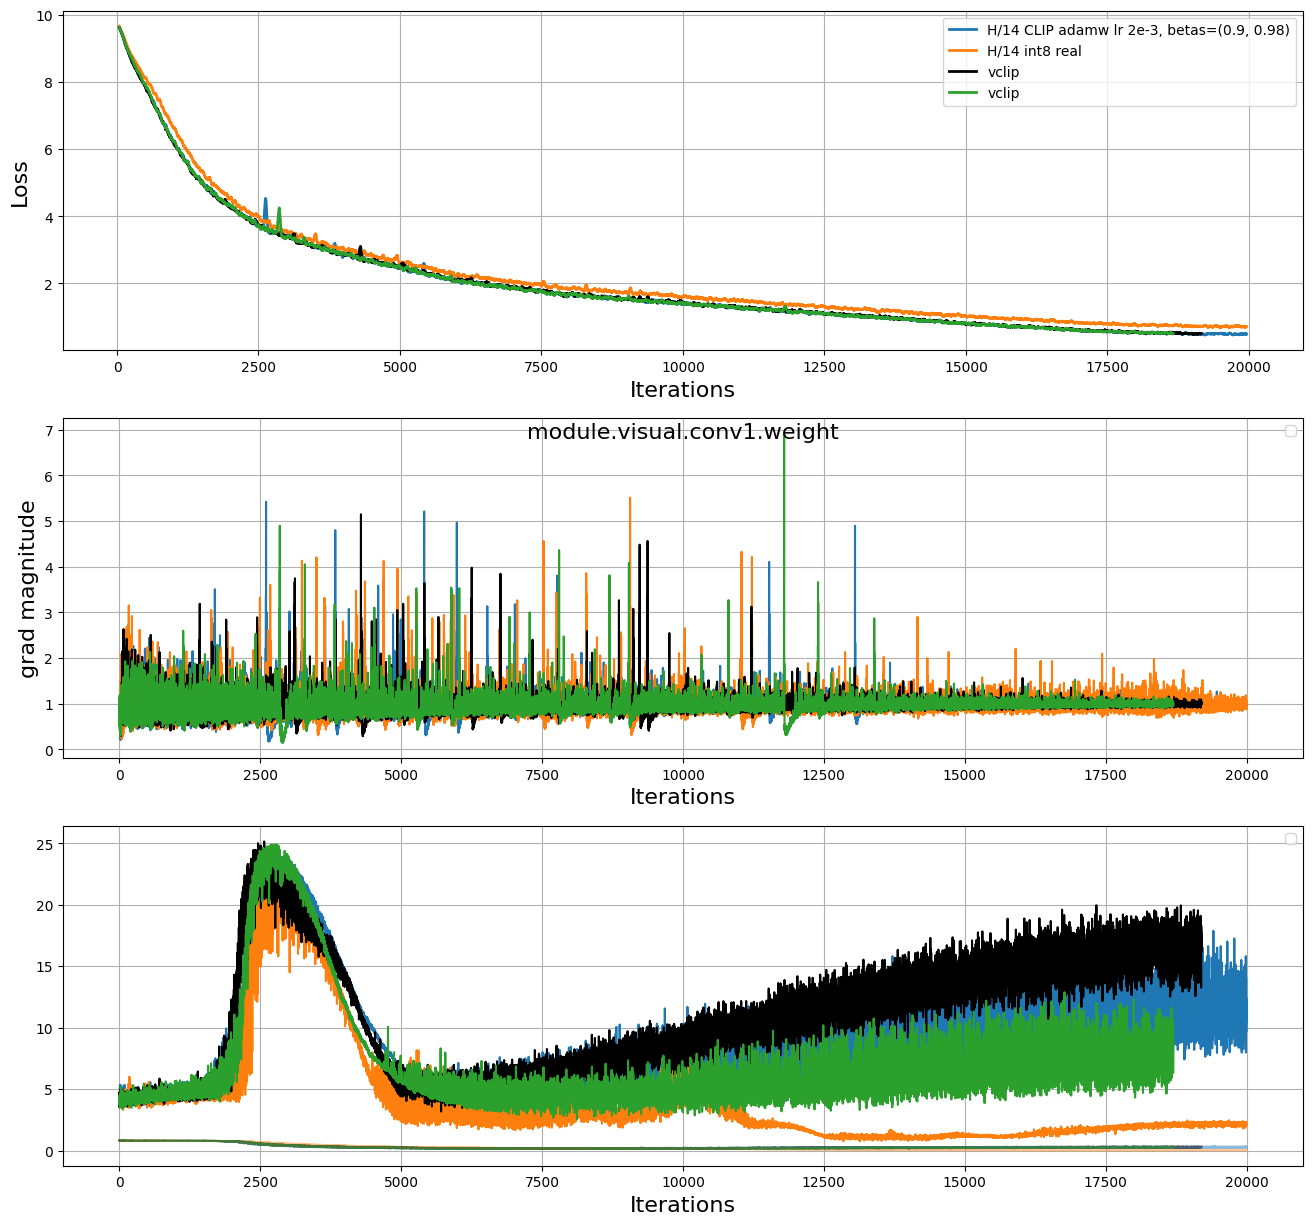
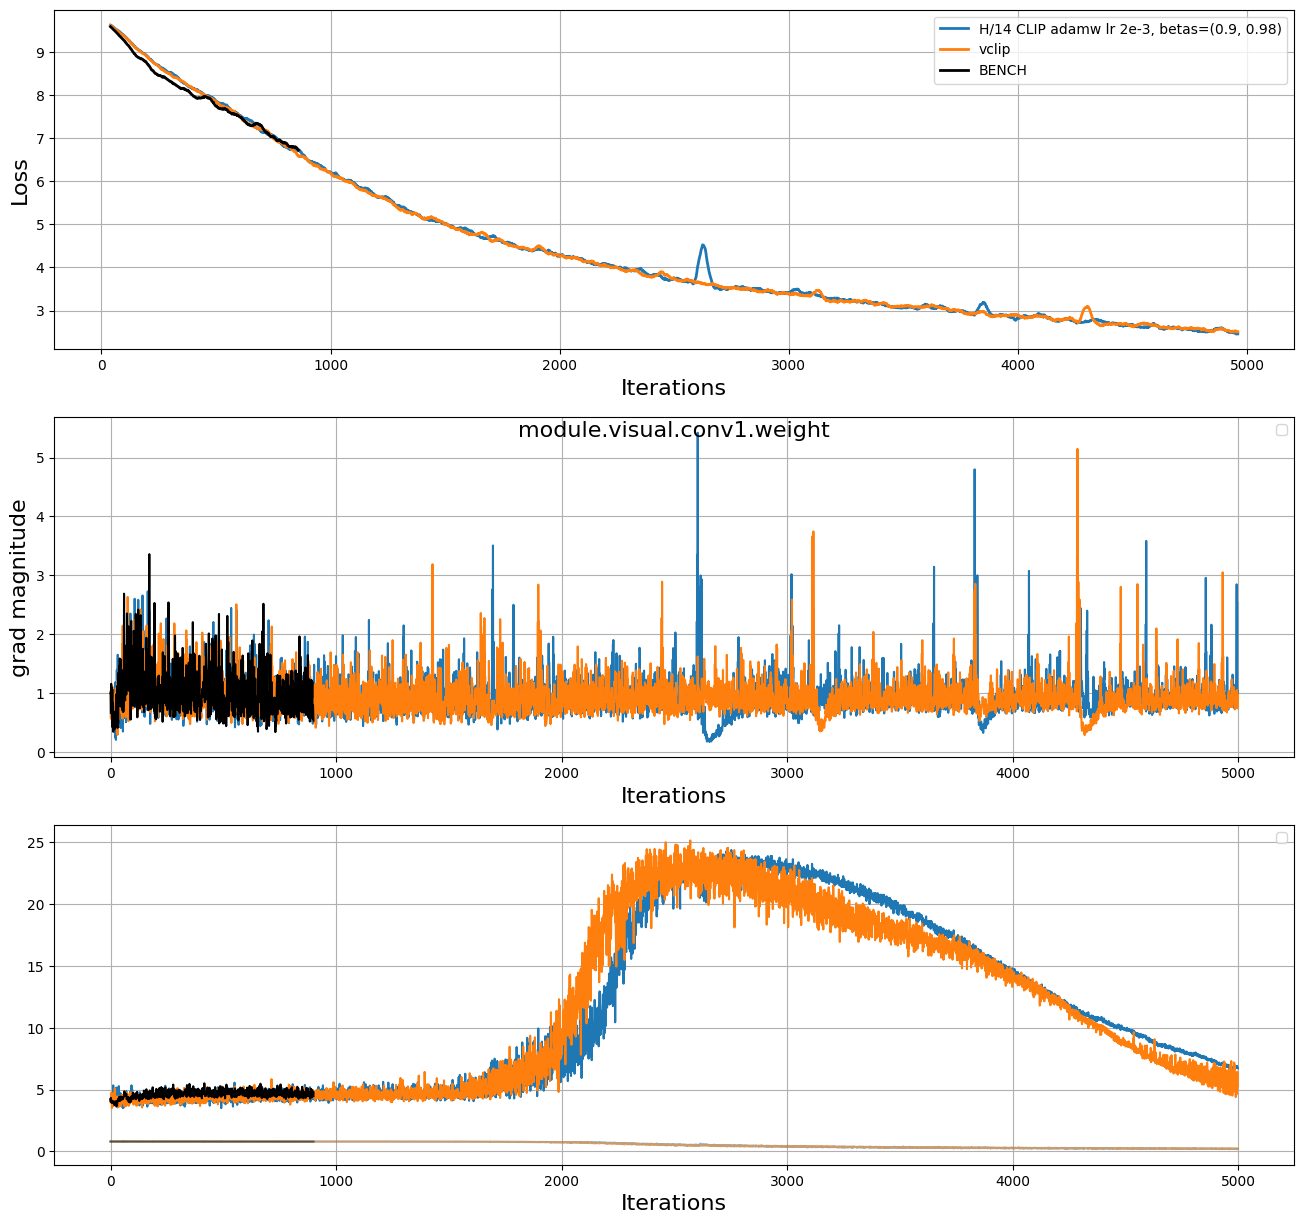
0

diff --git a/plots/opt3_lp_h.py b/plots/opt3_lp_h.py
@@ -94,22 +94,24 @@ if __name__ == '__main__':
     alpha = 1
     file_list = []
     bsz = 4096*4
-    ll = -1
+    ll = 5000
     file_list = [        
         # B
 
         # H
         # H
         (f'clipadamw-ViT-H-14-16384-2e-3-0.98-v0', 'H/14 CLIP adamw lr 2e-3, betas=(0.9, 0.98)','C0', ll), # 0.5757
-        (f'clipadamw-int8-ViT-H-14-16384-2e-3-0.98-v0', 'H/14 int8 real','C1', ll),
+        #(f'clipadamw-int8-ViT-H-14-16384-2e-3-0.98-v0', 'H/14 int8 real','C1', ll),
         # (f'clipadamw-sall8v2-ViT-H-14-16384-2e-3-0.98-v0', 'sall','C2', ll), # 0.5757
         # # (f'clipadamw-int8mix-ViT-H-14-16384-2e-3-0.98-v0', 'H/14 int8 real mix','C2', ll),
         # # (f'clipadamw-slint8-ViT-H-14-16384-2e-3-0.98-v0', 'slint','k', ll), # 0.5757
         # (f'clipadamw-sglint8-ViT-H-14-16384-2e-3-0.98-v0', 'sglint','C3', ll), # 0.5757
         # (f'stableadamw-py2v2-ViT-H-14-16384-2e-3-0.98-v1', 'sta','C4', ll), # 0.5757
 
-        (f'clipadamw-sglint8bnb-ViT-H-14-16384-2e-3-0.98-v0', 'vclip','k', ll), # 0.5757
-        (f'wclipadamw-ViT-H-14-16384-2e-3-0.45-v0', 'vclip','C2', ll), # 0.5757
+        (f'clipadamw-sglint8bnb-ViT-H-14-16384-2e-3-0.98-v0', 'vclip','C1', ll), # 0.5757
+        (f'clipadamw-sglint8bnb-ViT-H-14-16384-2e-3-0.98-vBENCH', 'BENCH','k', ll), # 0.5757
+
+        #(f'wclipadamw-ViT-H-14-16384-2e-3-0.45-v0', 'vclip','C2', ll), # 0.5757
 
 
 
